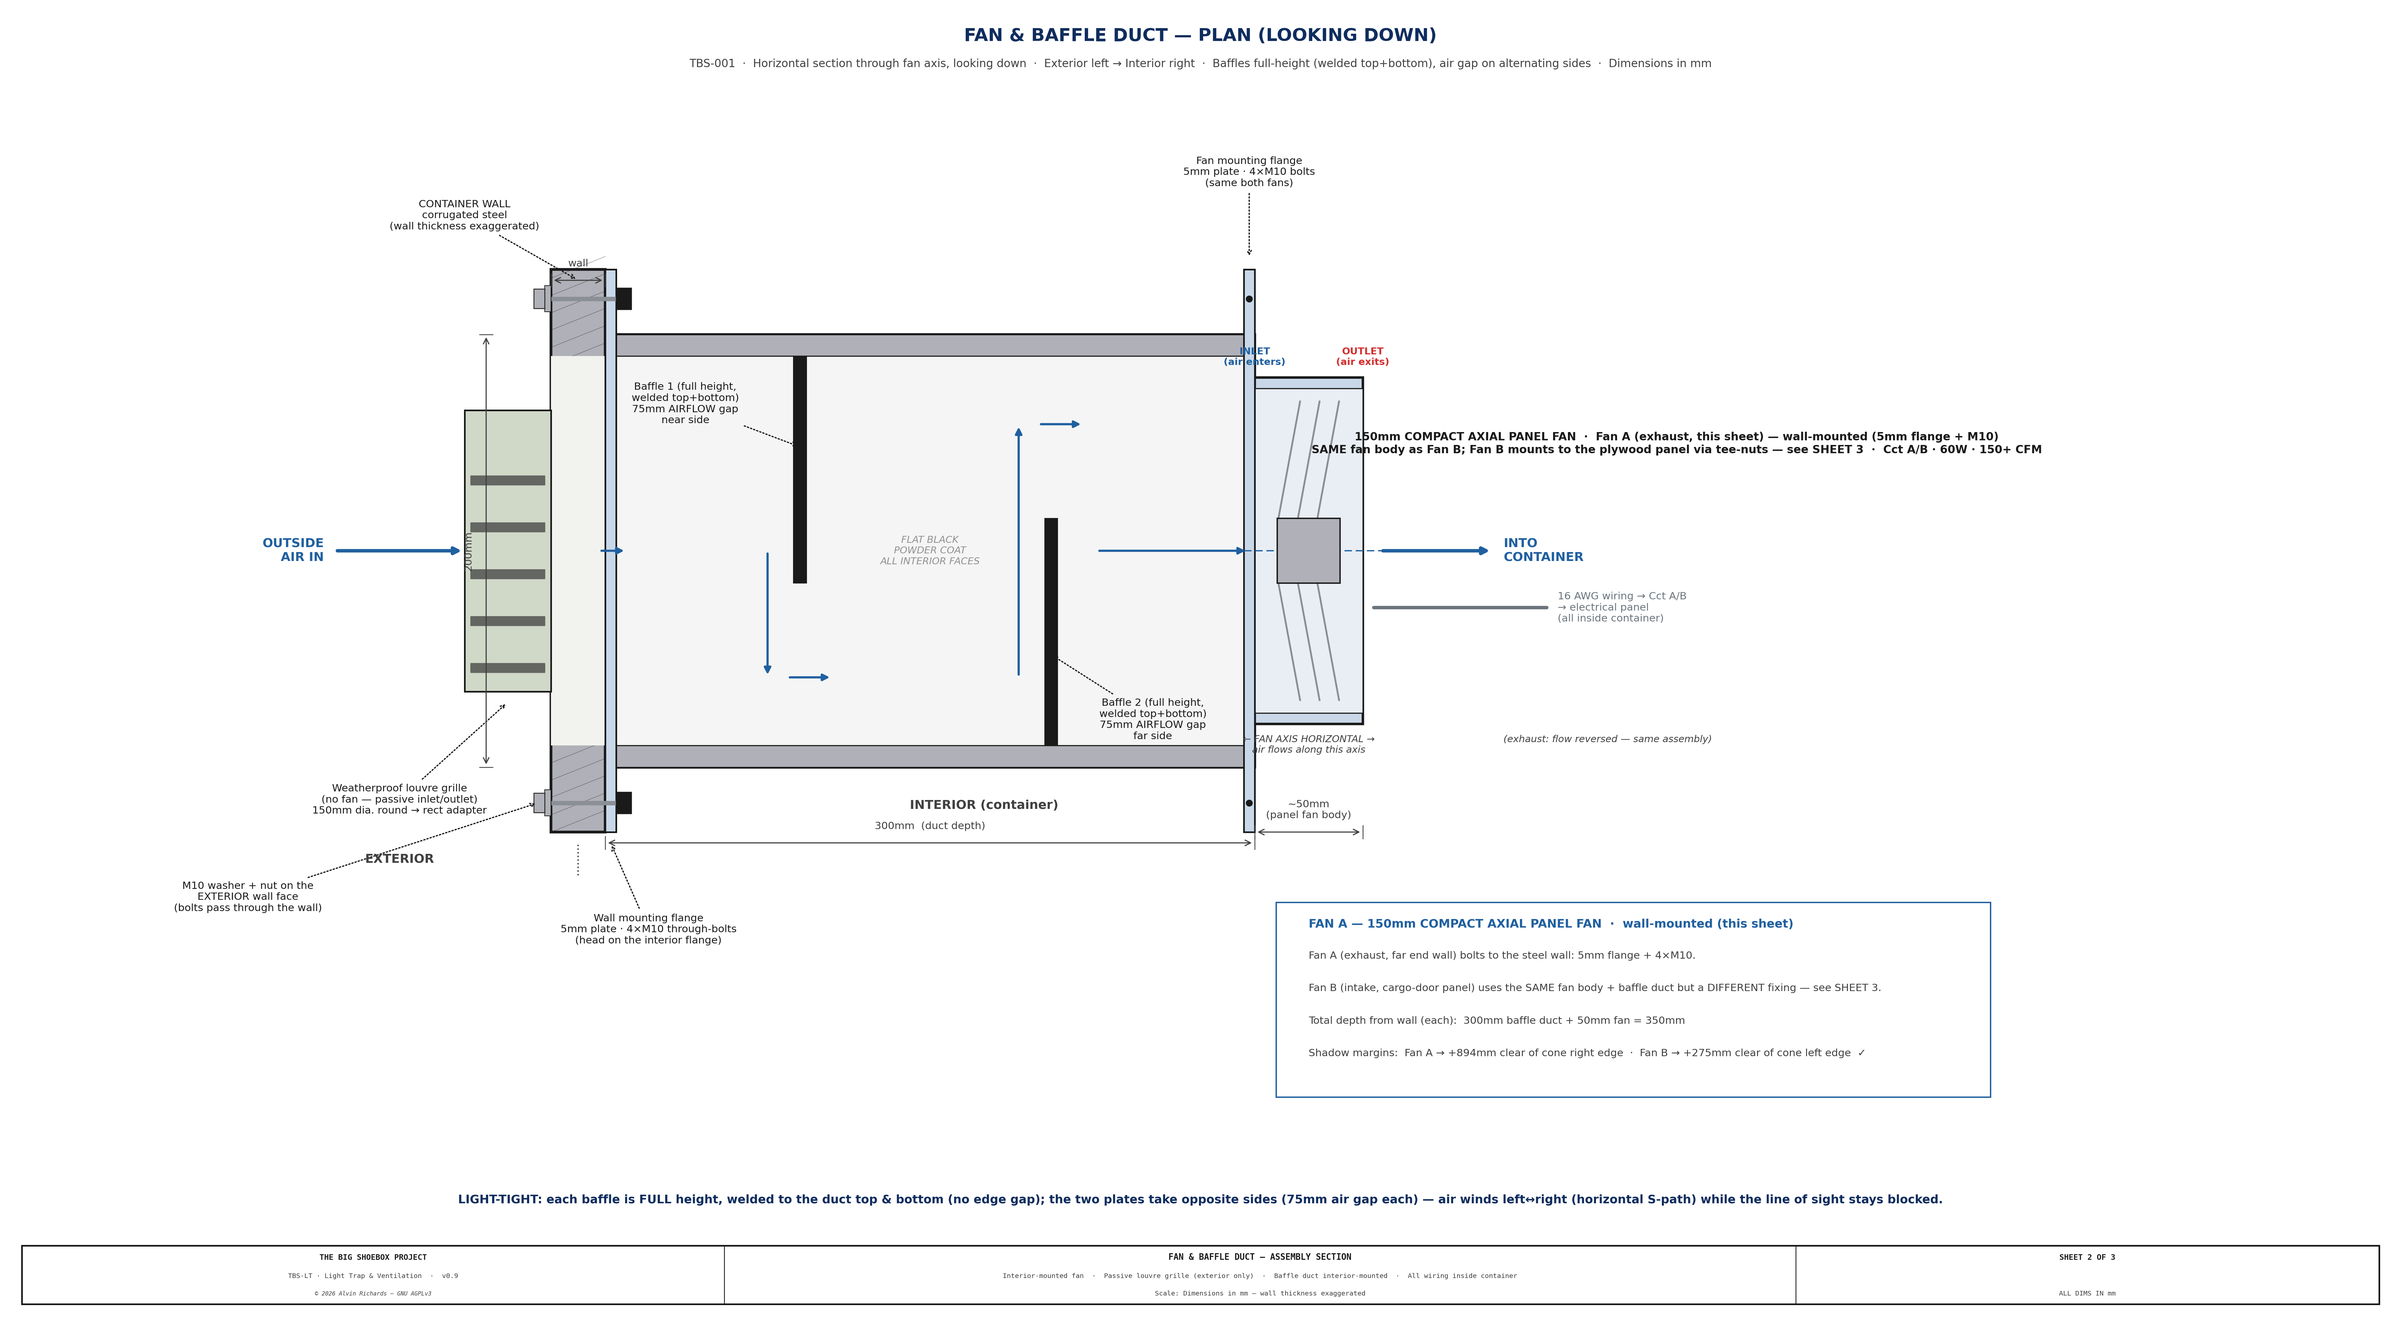
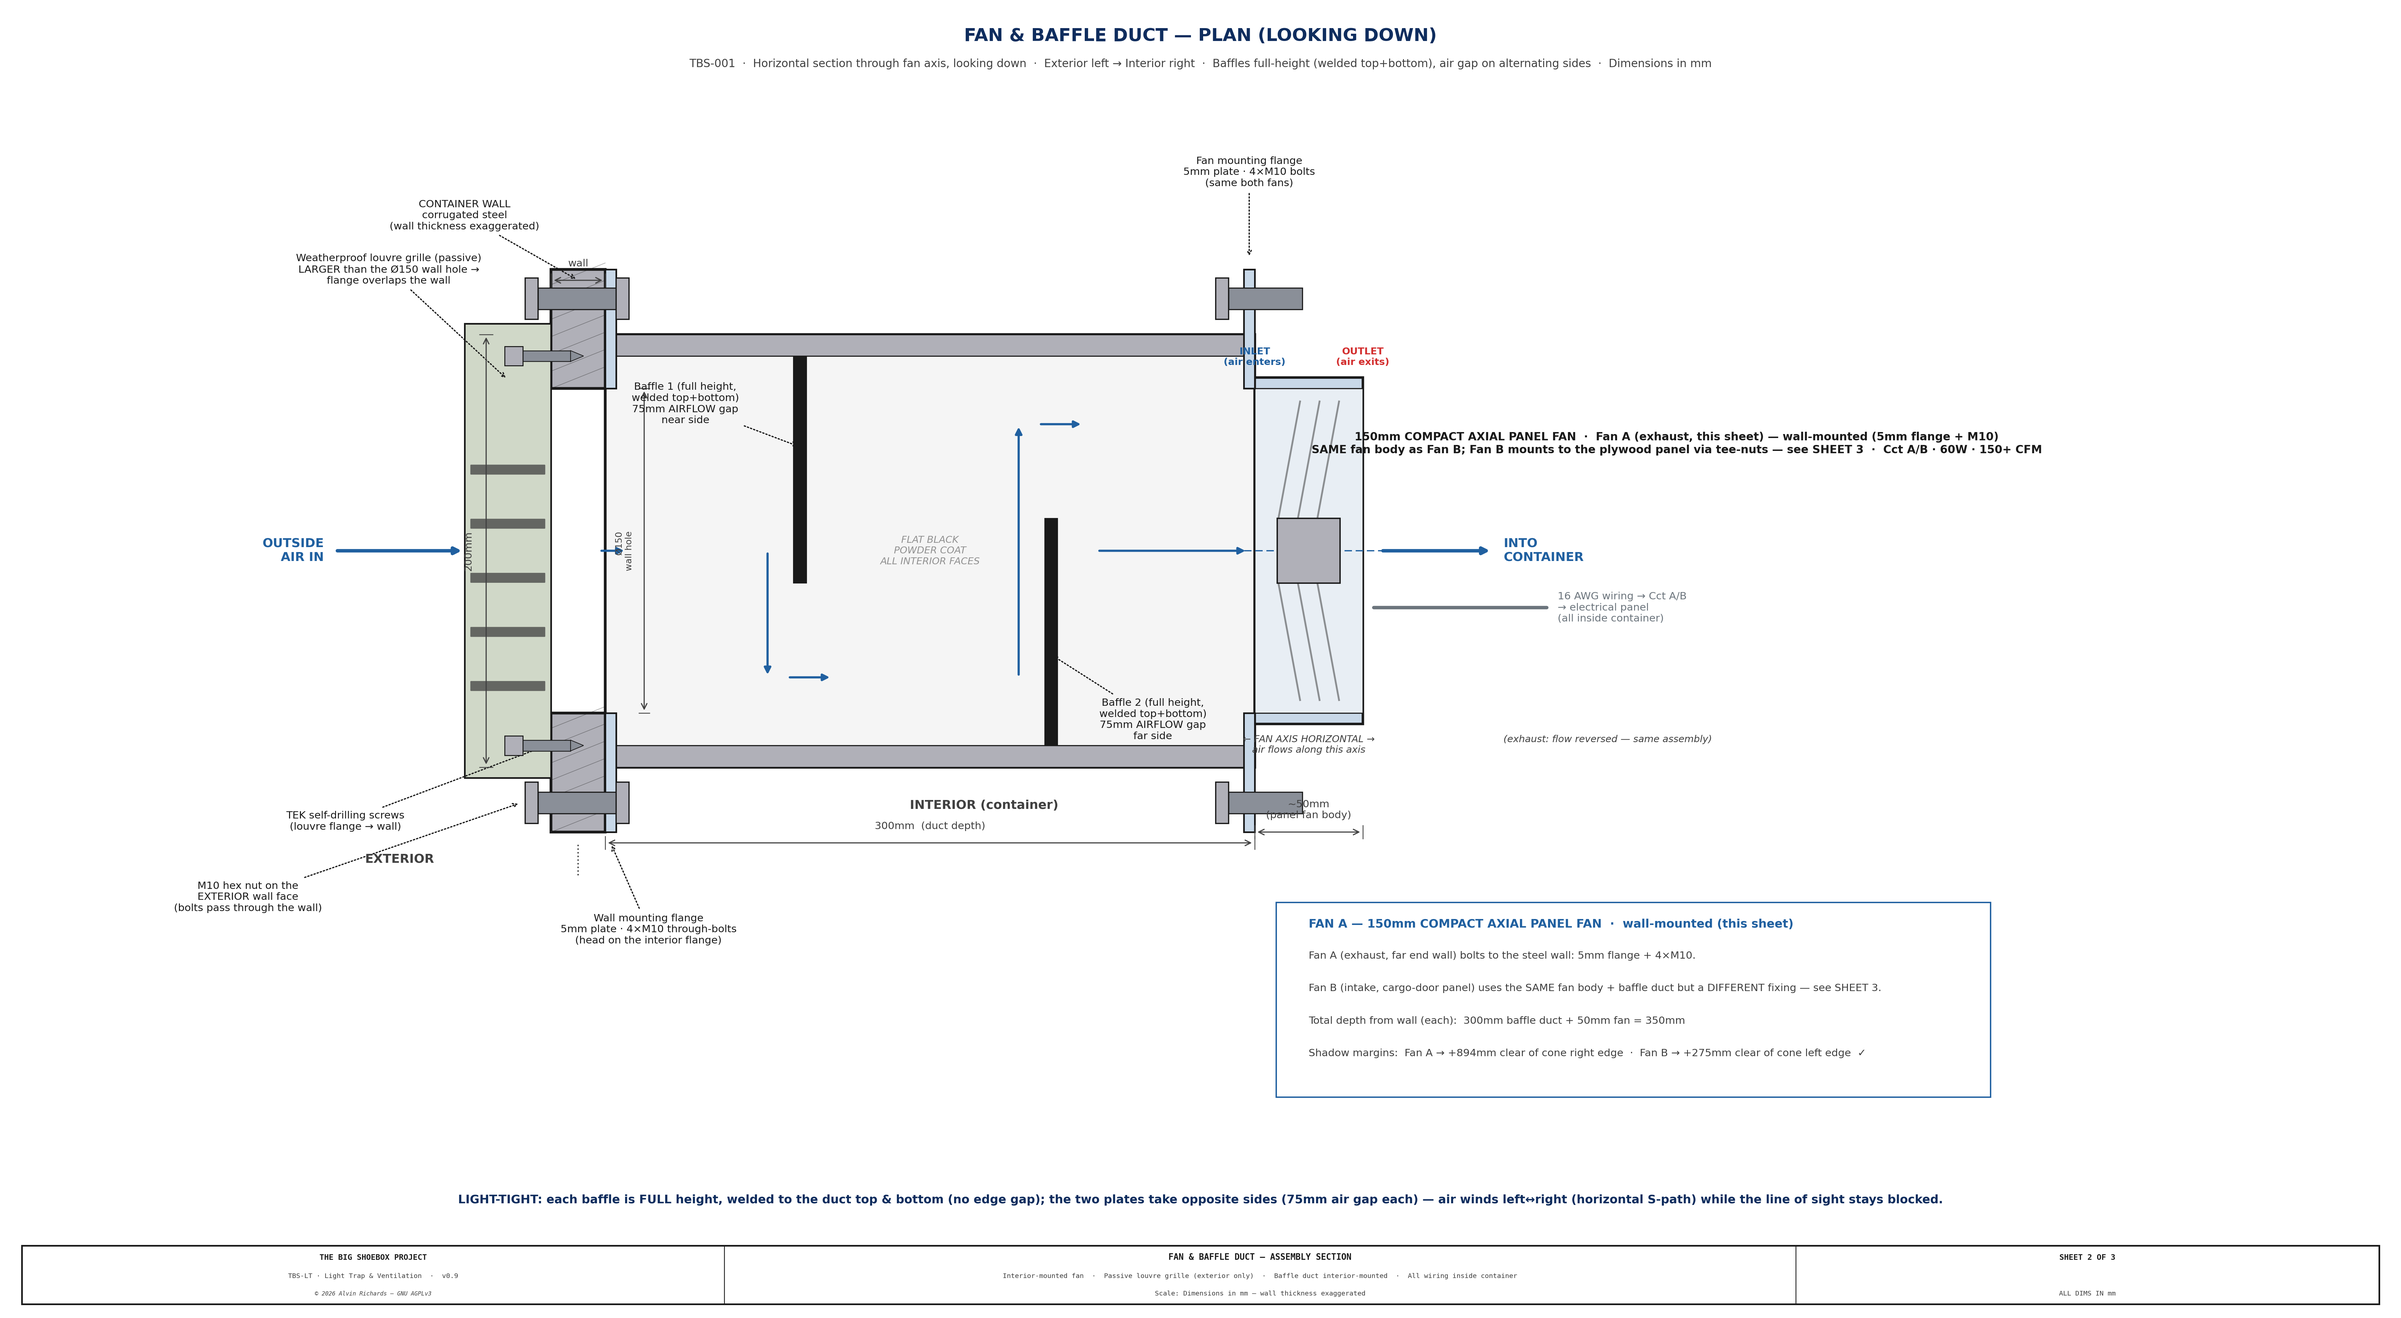
Ventilation Sheet 2/3: Ø150 bore cutouts in flanges/skins, draw_bolt convention to scale, wall hole < louvre with Tek screws

diff --git a/src/generators/generate_ventilation_diagram.py b/src/generators/generate_ventilation_diagram.py
@@ -13,6 +13,7 @@ import matplotlib
 matplotlib.use("Agg")
 import matplotlib.pyplot as plt
 import matplotlib.patches as mpatches
+import math
 import os
 from tbs_constants import (
     C_OUT, C_CL, C_DIM, C_ALUM, C_STEEL,
@@ -38,6 +39,63 @@ def ann(ax, text, xy, xytext, size=7.5):
     leader(ax, xy[0], xy[1], xytext[0], xytext[1], text,
            fs=size, color=C_OUT, ha="center", va="center",
            arrow_style="->", lw=0.9, zorder=10)
+
+
+def draw_bolt(ax, cx, cz, length, *, d=10, vertical=True, head=-1, end="nut", csk=False, wall=None, zb=10):
+    """Bolt in section — the shared project convention (cf. lighttrap draw_bolt): a filled shank with a
+    wider HEAD at the `head` end and, at the far end, a hex NUT / rivet-nut / tapped thread. cx,cz = shank
+    mid; `length` = grip along the axis; d = nominal Ø (drawn TO SCALE in mm). head = -1 → head at the
+    −axis end; +1 → +axis end. end: 'nut' hex nut · 'rivnut' flanged threaded insert spanning `wall` ·
+    'tapped' into a tapped hole (no nut)."""
+    SHK, HN = "#8A8F98", C_STEEL
+    hh, hw = d * 0.6, d * 1.9                              # head/nut along-axis / across
+    g = length / 2
+
+    def rect(u0, u1, v0, v1, **kw):
+        if vertical:
+            ax.add_patch(mpatches.Rectangle((cx + v0, cz + u0), v1 - v0, u1 - u0, **kw))
+        else:
+            ax.add_patch(mpatches.Rectangle((cx + u0, cz + v0), u1 - u0, v1 - v0, **kw))
+
+    def pmap(u, v):
+        return (cx + v, cz + u) if vertical else (cx + u, cz + v)
+    hu = -g if head < 0 else g
+    fu = g if head < 0 else -g
+    rect(-g, g, -d / 2, d / 2, fc=SHK, ec=C_OUT, lw=0.8, zorder=zb)                        # shank
+    rect(hu - (hh if head < 0 else 0), hu + (0 if head < 0 else hh), -hw / 2, hw / 2,
+         fc=HN, ec=C_OUT, lw=0.9, zorder=zb + 1)                                           # protruding hex head
+    if end == "nut":
+        rect(fu - (0 if head < 0 else hh), fu + (hh if head < 0 else 0), -hw / 2, hw / 2,
+             fc=HN, ec=C_OUT, lw=0.9, zorder=zb + 1)                                       # hex nut
+    elif end == "rivnut":
+        RN = "#A8763A"
+        into = 1 if head < 0 else -1
+        wt = wall if wall is not None else hh
+        hp = fu + into * wt
+        rect(fu, hp, -hw * 0.44, hw * 0.44, fc=RN, ec=C_OUT, lw=0.8, zorder=zb + 1)        # barrel (spans the wall)
+        rect(fu, hp, -d * 0.48, d * 0.48, fc=SHK, ec="none", zorder=zb + 2)                # bolt threaded into it
+        HWr, HHr = d * 0.95, d * 0.42
+        dome = [pmap(hp, HWr)]
+        for kk in range(13):
+            a = math.pi * (0.5 - kk / 12.0)
+            dome.append(pmap(hp + into * HHr * math.cos(a), HWr * math.sin(a)))
+        dome.append(pmap(hp, -HWr))
+        ax.add_patch(mpatches.Polygon(dome, closed=True, fc=RN, ec=C_OUT, lw=0.9, zorder=zb + 3))
+
+
+def tek_screw(ax, cx, cz, length, *, d=5, head=-1, zb=11):
+    """Self-drilling TEK screw in section (horizontal): small hex/washer head at the `head` end + a
+    tapered self-drill point at the far end. d = nominal Ø (M5 ~ to scale)."""
+    SHK = "#8A8F98"
+    g = length / 2
+    hu = -g if head < 0 else g
+    ftip = g if head < 0 else -g
+    into = 1 if head < 0 else -1
+    ax.add_patch(mpatches.Rectangle((cx - g, cz - d / 2), length, d, fc=SHK, ec=C_OUT, lw=0.6, zorder=zb))  # shank
+    ax.add_patch(mpatches.Rectangle((cx + hu - (d * 1.7 if head < 0 else 0), cz - d * 0.9),                 # washer/hex head
+                                    d * 1.7, d * 1.8, fc=C_STEEL, ec=C_OUT, lw=0.7, zorder=zb + 1))
+    ax.add_patch(mpatches.Polygon([(cx + ftip, cz - d / 2), (cx + ftip, cz + d / 2),                        # drill point
+                                   (cx + ftip + into * d * 1.2, cz)], closed=True, fc=SHK, ec=C_OUT, lw=0.5, zorder=zb))
 
 
 
@@ -420,27 +478,36 @@ def draw_sheet2():
             "Baffles full-height (welded top+bottom), air gap on alternating sides  ·  Dimensions in mm",
             ha="center", va="center", fontsize=8.0, color=C_DIM)
 
-    # ── Container wall ────────────────────────────────────────────────────────
-    draw_rect(ax, WALL_X, wz0, WALL_T, wz1 - wz0, fc=C_STEEL, lw=2.0, zorder=4)
-    for zi in range(wz0, wz1, 8):
-        ax.plot([WALL_X, WALL_X + WALL_T], [zi, zi + 10],
-                color=C_OUT, lw=0.4, alpha=0.4, zorder=5)
-    draw_rect(ax, WALL_X, DZ + SK, WALL_T, int_h, fc="#F2F2EE", color="none", lw=0, zorder=5)
+    # ── Container wall — with the Ø150 airflow HOLE (the duct passes through; the hole is SMALLER
+    #    than the louvre panel so its flange overlaps the wall for the Tek screws) ──
+    HB, HT = FCZ - PF_R, FCZ + PF_R                          # Ø150 airflow hole (bottom / top)
+    for z0, z1 in [(wz0, HB), (HT, wz1)]:                    # wall drawn ABOVE + BELOW the hole
+        draw_rect(ax, WALL_X, z0, WALL_T, z1 - z0, fc=C_STEEL, lw=2.0, zorder=4)
+        for zi in range(int(z0), int(z1), 8):
+            ax.plot([WALL_X, WALL_X + WALL_T], [zi, zi + 10],
+                    color=C_OUT, lw=0.4, alpha=0.4, zorder=5)
     ann(ax, "CONTAINER WALL\ncorrugated steel\n(wall thickness exaggerated)",
         (WALL_X + WALL_T / 2, wz1 - 5), (WALL_X - 40, wz1 + 25))
+    draw_dim_v(ax, WALL_X + WALL_T + 18, HB, HT, f"Ø{FAN_DIAM}\nwall hole", offset=8, fs=6.5, zorder=10, color=C_DIM)
 
-    # ── Weatherproof louvre grille ─────────────────────────────────────────────
-    GL_Z = DZ + DH / 2 - GL_H / 2
+    # ── Weatherproof louvre grille — LARGER than the Ø150 hole so its flange overlaps the wall; fixed
+    #    with self-drilling TEK screws through the flange margins into the wall (passive, no fan) ──
+    GL_MARG = 30                                             # flange margin beyond the hole (for the Tek screws)
+    GL_Z = HB - GL_MARG                                      # louvre bottom (below the hole)
+    GL_H = (HT + GL_MARG) - GL_Z                             # louvre height > hole → flange overlaps the wall
     draw_rect(ax, WALL_X - GL_W, GL_Z, GL_W, GL_H, fc="#D0D8C8", lw=1.2, zorder=6)
-    slat_h  = 4
-    slat_gap = GL_H / 6
-    for i in range(5):
-        slat_z = GL_Z + slat_gap * (i + 0.5)
+    slat_h = 4
+    for i in range(5):                                       # slats across the OPENING (hole) region
+        slat_z = HB + (HT - HB) / 6 * (i + 0.5)
         ax.add_patch(mpatches.FancyBboxPatch(
             (WALL_X - GL_W + 3, slat_z - slat_h / 2), GL_W - 6, slat_h,
             boxstyle="round,pad=0.3", fc=C_DIM, ec="none", zorder=7, alpha=0.75))
-    ann(ax, "Weatherproof louvre grille\n(no fan — passive inlet/outlet)\n150mm dia. round → rect adapter",
-        (WALL_X - GL_W / 2, GL_Z - 5), (WALL_X - GL_W / 2 - 50, GL_Z - 50))
+    for tz in (GL_Z + GL_MARG / 2, GL_Z + GL_H - GL_MARG / 2):   # TEK screws through the flange → wall
+        tek_screw(ax, WALL_X - 2, tz, 22, d=5, head=-1)
+    ann(ax, "Weatherproof louvre grille (passive)\nLARGER than the Ø150 wall hole →\nflange overlaps the wall",
+        (WALL_X - GL_W / 2, HT + 4), (WALL_X - GL_W / 2 - 55, HT + 55))
+    ann(ax, "TEK self-drilling screws\n(louvre flange → wall)",
+        (WALL_X - 2, GL_Z + GL_MARG / 2), (WALL_X - 95, GL_Z - 20))
 
     # ── Baffle duct housing ───────────────────────────────────────────────────
     draw_rect(ax, DX, DZ, DD, DH, fc="#F5F5F5", lw=2.0, zorder=3)
@@ -452,20 +519,16 @@ def draw_sheet2():
     ax.add_patch(mpatches.Rectangle((DX, DZ + SK), DD, int_h,
                  fc="#2A2A2A", ec="none", zorder=2, alpha=0.12))
 
-    # ── Wall mounting flange + 4×M10 through-bolts ─────────────────────────────
-    draw_rect(ax, DX, wz0, FL_T, wz1 - wz0, fc=C_ALUM, lw=1.2, zorder=6)
-    for bz in [wz0 + FL_OH * 0.45, wz1 - FL_OH * 0.45]:
-        # M10 THROUGH-bolt: head bears on the interior flange; shank runs THROUGH the flange + the
-        # container wall; washer + hex nut clamp on the EXTERIOR (weather) face.
-        ax.plot([WALL_X - 8, DX + FL_T + 7], [bz, bz],
-                color="#8A8F98", lw=3.2, solid_capstyle="butt", zorder=7)          # shank
-        draw_rect(ax, DX + FL_T, bz - 5, 7, 10, fc=C_OUT, lw=0.6, zorder=8)         # hex head (interior, on the flange)
-        draw_rect(ax, WALL_X - 3, bz - 6, 3, 12, fc=C_STEEL, lw=0.5, zorder=8)      # washer (exterior wall face)
-        draw_rect(ax, WALL_X - 8, bz - 4.5, 5, 9, fc=C_STEEL, lw=0.6, zorder=8)     # hex nut (exterior)
+    # ── Wall mounting flange (Ø150 airflow cutout) + 4×M10 through-bolts (to scale, project convention) ──
+    for z0, z1 in [(wz0, HB), (HT, wz1)]:
+        draw_rect(ax, DX, z0, FL_T, z1 - z0, fc=C_ALUM, lw=1.2, zorder=6)
+    nut_x, head_x = WALL_X - 6, DX + FL_T                    # nut on the EXTERIOR face · head on the interior flange
+    for bz in [wz0 + FL_OH * 0.45, wz1 - FL_OH * 0.45]:      # M10 through-bolt: head +X (interior), hex nut −X (exterior)
+        draw_bolt(ax, (nut_x + head_x) / 2, bz, head_x - nut_x, d=10, vertical=False, head=1, end="nut", zb=7)
     ann(ax, "Wall mounting flange\n5mm plate · 4×M10 through-bolts\n(head on the interior flange)",
         (DX + FL_T / 2, wz0 - 5), (DX + 20, wz0 - 45))
-    ann(ax, "M10 washer + nut on the\nEXTERIOR wall face\n(bolts pass through the wall)",
-        (WALL_X - 6, wz0 + FL_OH * 0.45), (WALL_X - 140, wz0 - 30))
+    ann(ax, "M10 hex nut on the\nEXTERIOR wall face\n(bolts pass through the wall)",
+        (nut_x - 8, wz0 + FL_OH * 0.45), (WALL_X - 140, wz0 - 30))
 
     # ── Baffles ───────────────────────────────────────────────────────────────
     AIR_GAP = 75                            # airflow gap left by each baffle (S-path)
@@ -494,10 +557,11 @@ def draw_sheet2():
             "plates take opposite sides (75mm air gap each) — air winds left↔right (horizontal S-path) while the line of sight stays blocked.",
             ha="center", va="center", fontsize=8.5, color=TITLE_COL, fontweight="bold", zorder=9)
 
-    # ── Fan mounting flange (duct right face) ─────────────────────────────────
-    draw_rect(ax, FX - FL_T, wz0, FL_T, wz1 - wz0, fc=C_ALUM, lw=1.2, zorder=6)
-    for bz in [wz0 + FL_OH * 0.45, wz1 - FL_OH * 0.45]:
-        ax.plot(FX - FL_T / 2, bz, "o", color=C_OUT, ms=4, zorder=7)
+    # ── Fan mounting flange (Ø150 airflow cutout, duct right face) + 4×M10 bolts into the fan (to scale) ──
+    for z0, z1 in [(wz0, HB), (HT, wz1)]:
+        draw_rect(ax, FX - FL_T, z0, FL_T, z1 - z0, fc=C_ALUM, lw=1.2, zorder=6)
+    for bz in [wz0 + FL_OH * 0.45, wz1 - FL_OH * 0.45]:      # head on the duct-flange face (−X); threads into the fan (tapped)
+        draw_bolt(ax, FX + 5, bz, 34, d=10, vertical=False, head=-1, end="tapped", zb=7)
     ann(ax, "Fan mounting flange\n5mm plate · 4×M10 bolts\n(same both fans)",
         (FX - FL_T / 2, wz1 + 5), (FX - FL_T / 2, wz1 + 45))
 
@@ -630,7 +694,7 @@ def draw_sheet2():
 # ─────────────────────────────────────────────────────────────────────────────
 
 def draw_sheet3():
-    C_WOOD, C_HDPE, C_TNUT = "#C9A66B", "#7FA8C9", "#A8763A"
+    C_WOOD, C_HDPE = "#C9A66B", "#7FA8C9"
 
     DD    = DUCT_DEPTH               # 300 baffle duct
     DH    = DUCT_HEIGHT             # 200
@@ -681,18 +745,17 @@ def draw_sheet3():
     ann(ax, "1/8\" HDPE skin\n(each face)",
         (PLY_X1 + SKIN_T / 2, bore0 - 12), (PLY_X1 + 60, bore0 - 55))
 
-    # ── Fan mounting flange plate — butts the ply EXTERIOR face; the fan body is exterior of it ──
-    draw_rect(ax, PLY_X0 - SKIN_T - FL_T, wz0, FL_T, wz1 - wz0, fc=C_ALUM, lw=1.2, zorder=6)
+    # ── Fan mounting flange plate (Ø150 bore cutout) — butts the ply/skin; the fan body is exterior of it ──
+    for z0, z1 in [(wz0, bore0), (bore1, wz1)]:
+        draw_rect(ax, PLY_X0 - SKIN_T - FL_T, z0, FL_T, z1 - z0, fc=C_ALUM, lw=1.2, zorder=6)
     ann(ax, "fan MOUNTING FLANGE plate\n(butts the ply / skin)",
         (PLY_X0 - SKIN_T - FL_T / 2, wz0 - 5), (PLY_X0 - SKIN_T - FL_T - 10, wz0 - 45))
 
-    # ── 2× M8 through the flange + skin + ply into a captive TEE-NUT (flange on the ply interior face) ──
+    # ── 2× M8 (to scale, project convention) through the flange + skin into a captive TEE-NUT — drawn with
+    #    the rivnut convention: bronze barrel spanning the 18mm ply, flange/head on the far (interior) face ──
     for bz in (wz0 + FL_OH * 0.5, wz1 - FL_OH * 0.5):
-        # bolt shank: flange exterior face → into the tee-nut in the ply
-        ax.plot([PLY_X0 - SKIN_T - FL_T, PLY_X1 - 3], [bz, bz], color="#8A8F98", lw=3.2, solid_capstyle="butt", zorder=8)
-        ax.plot([PLY_X0 - SKIN_T - FL_T - 4, PLY_X0 - SKIN_T - FL_T], [bz, bz], color=C_OUT, lw=6, solid_capstyle="butt", zorder=8)  # hex head
-        draw_rect(ax, PLY_X1 - 8, bz - 4, 8, 8, fc=C_TNUT, color=C_OUT, lw=0.8, zorder=9)     # tee-nut barrel (in the ply)
-        draw_rect(ax, PLY_X1, bz - 7, 3, 14, fc=C_TNUT, color=C_OUT, lw=0.8, zorder=9)        # tee-nut flange (ply interior face)
+        draw_bolt(ax, PLY_X0 - (SKIN_T + FL_T) / 2, bz, SKIN_T + FL_T,
+                  d=8, vertical=False, head=-1, end="rivnut", wall=PLY_T, zb=8)
     ann(ax, "2× M8 → captive TEE-NUT in the ply\n(flange on the interior face — Sheet 14 Detail A)",
         (PLY_X1 + 1, wz1 - FL_OH * 0.5), (PLY_X1 + 70, wz1 + 20))
 

diff --git a/RELEASE.md b/RELEASE.md
@@ -30,6 +30,10 @@ file** — a release must not ship without a changelog entry:
   container wall. Added a dedicated **Fan B mount plan** (same fan body + baffle duct, plywood/tee-nut
   fixing) and corrected Sheet 2 + the report so the "identical" claim now scopes to the fan body only
   (Fan A = wall/M10, Fan B = plywood/tee-nut). Registered across deps/publish/setup/gallery/report.
+  Follow-up: cut the Ø150 airflow bore through every mounting flange/skin so the section reads the air
+  path; redrew all fasteners with the shared `draw_bolt` convention TO SCALE (M10 wall through-bolts →
+  hex nut on the exterior; M8 → captive tee-nut via the rivnut convention); and on Sheet 2 sized the wall
+  hole SMALLER than the louvre so its flange overlaps the wall, fixed with self-drilling Tek screws.
 
 - **Hinged panel — Sheet 2 zero-drift reconcile with the 3D (drum/cage/frame depth).** Sheet 2 was
   recomputing the drum/cage depth locally (drum center −450, cage −875..−25) instead of using the shared
